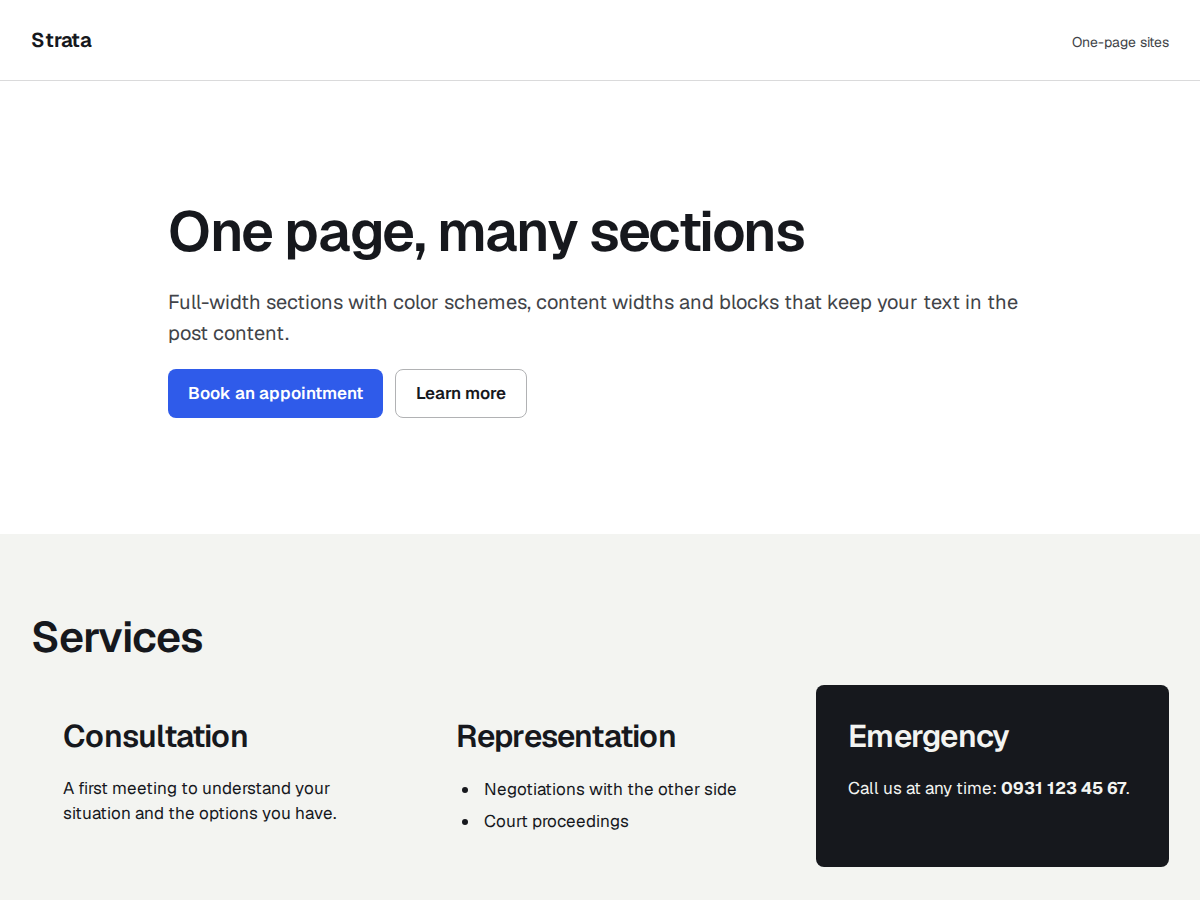
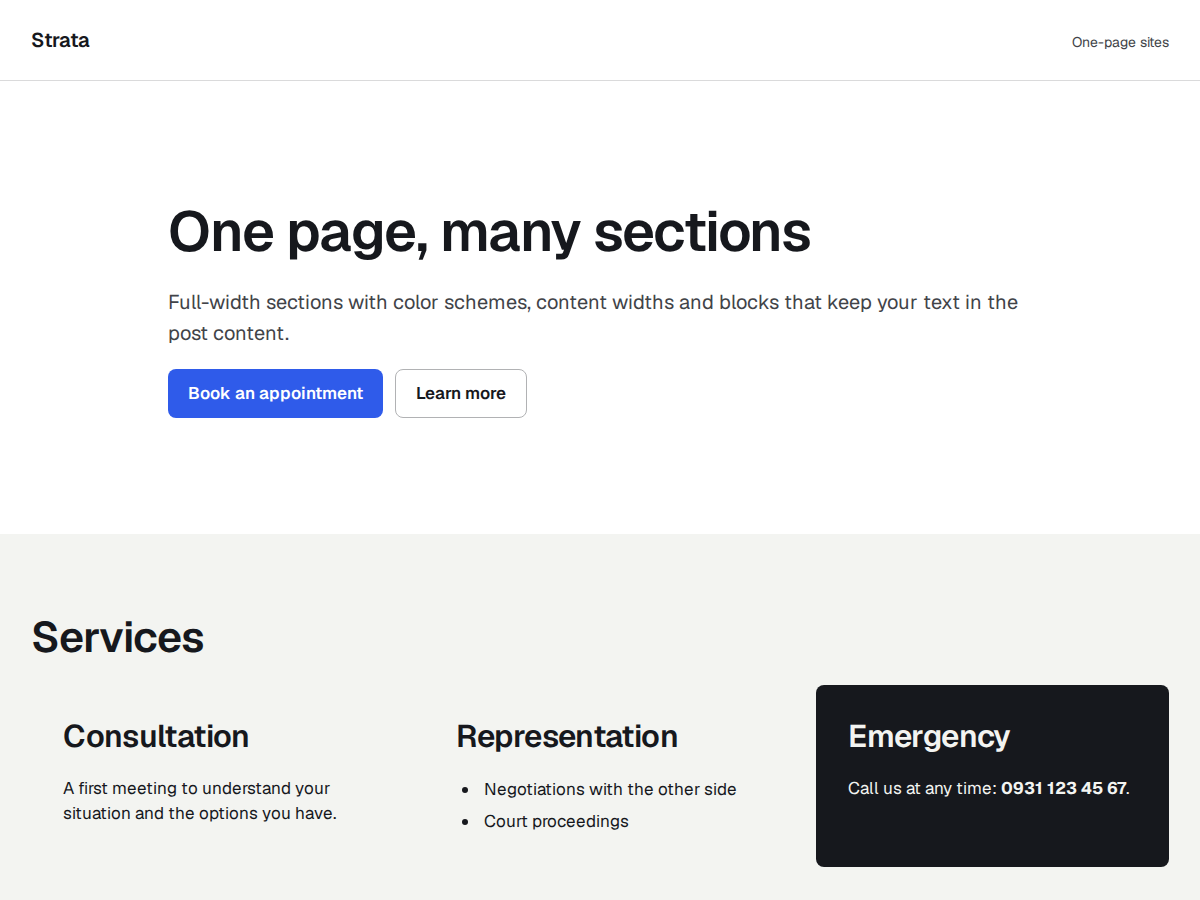
Add the Navigation block
Links to sections and pages: a row from md on, below a menu button that
opens a full-window panel. The panel is a popover, so the browser opens
and closes it (also with Escape); the view script closes it when a link is
followed. The screenshot follows the display font tokens of the last
commit.

diff --git a/tests/e2e/specs/navigation.spec.js b/tests/e2e/specs/navigation.spec.js
@@ -1,0 +1,93 @@
+/**
+ * The navigation on the front end: a row of links on wide screens, a panel behind the menu button on small screens
+ * that closes when a link to a section of the page is followed.
+ */
+const { test, expect } = require( '../fixtures' );
+
+const { block, cleanUp, createPost } = require( '../helpers' );
+
+const link = ( label, url ) =>
+	block( 'strata/navigation-link', {
+		label,
+		link: { url, opensInNewTab: false, kind: 'url', id: 0 },
+	} );
+const paragraph = ( text ) => block( 'strata/paragraph', {}, text );
+
+test.describe( 'Navigation', () => {
+	test.afterEach( async ( { requestUtils } ) => {
+		await cleanUp( requestUtils );
+	} );
+
+	test( 'shows a row of links on wide screens and a panel behind the menu button on small ones', async ( {
+		page,
+		requestUtils,
+	} ) => {
+		const filler = Array.from( { length: 30 }, ( _, index ) =>
+			paragraph( `Line ${ index }` )
+		).join( '\n' );
+		const post = await createPost( requestUtils, {
+			content: [
+				block(
+					'strata/section',
+					{},
+					block(
+						'strata/navigation',
+						{ label: 'Main', menuLabel: 'Menu' },
+						[
+							link( 'About', '#about' ),
+							link( 'Target', '#target' ),
+						].join( '\n' )
+					)
+				),
+				block( 'strata/section', {}, filler ),
+				block(
+					'strata/section',
+					{ anchor: 'target' },
+					paragraph( 'Target section' )
+				),
+			].join( '\n' ),
+		} );
+		const nav = page.getByRole( 'navigation', { name: 'Main' } );
+		const toggle = nav.getByRole( 'button', { name: 'Menu' } );
+		const panel = nav.locator( '.strata-navigation__panel' );
+
+		await page.setViewportSize( { width: 1280, height: 800 } );
+		await page.goto( post.link );
+		await expect( toggle ).toBeHidden();
+		const about = await nav
+			.getByRole( 'link', { name: 'About' } )
+			.boundingBox();
+		const target = await nav
+			.getByRole( 'link', { name: 'Target' } )
+			.boundingBox();
+		expect( target.y ).toBe( about.y );
+		expect( target.x ).toBeGreaterThan( about.x );
+
+		await page.setViewportSize( { width: 390, height: 800 } );
+		await expect( toggle ).toBeVisible();
+		await expect(
+			nav.getByRole( 'link', { name: 'Target' } )
+		).toBeHidden();
+
+		await toggle.click();
+		await expect( panel ).toBeVisible();
+		expect( await panel.boundingBox() ).toEqual( {
+			x: 0,
+			y: 0,
+			width: 390,
+			height: 800,
+		} );
+
+		// Following a link to a section of the page closes the panel.
+		await nav.getByRole( 'link', { name: 'Target' } ).click();
+		await expect( panel ).toBeHidden();
+		await expect( page ).toHaveURL( /#target$/ );
+		await expect( page.getByText( 'Target section' ) ).toBeInViewport();
+
+		// Escape closes it as well.
+		await toggle.click();
+		await expect( panel ).toBeVisible();
+		await page.keyboard.press( 'Escape' );
+		await expect( panel ).toBeHidden();
+	} );
+} );

diff --git a/assets/styles.css b/assets/styles.css
@@ -172,6 +172,46 @@
 		border-radius: var(--radius-control);
 	}
 
+	/*
+	 * Navigation: below md the links sit in a panel over the whole window (a popover; the browser hides it until
+	 * the menu button opens it), from md on the panel dissolves and the links form a row.
+	 */
+	.strata-navigation__panel {
+		inset: 0;
+		width: 100%;
+		max-width: none;
+		height: 100%;
+		max-height: none;
+		margin: 0;
+		border: 0;
+		padding: var(--spacing-gutter);
+		background-color: var(--scheme-bg);
+		color: var(--scheme-fg);
+	}
+
+	.strata-navigation__panel:popover-open {
+		display: flex;
+		flex-direction: column;
+		gap: 2rem;
+	}
+
+	.strata-navigation__panel .strata-navigation__list {
+		flex-direction: column;
+		font-size: var(--text-2xl);
+	}
+
+	/* The buttons hide with md:hidden in the template; utilities win over this layer. */
+	@media (width >= 48rem) {
+		.strata-navigation__panel {
+			display: contents;
+		}
+
+		.strata-navigation__panel .strata-navigation__list {
+			flex-direction: row;
+			font-size: inherit;
+		}
+	}
+
 	/* The header and footer parts sit apart from the content by a line. */
 	header.wp-block-template-part {
 		border-block-end: 1px solid var(--scheme-line);

diff --git a/src/Block/Navigation/Navigation.view.js b/src/Block/Navigation/Navigation.view.js
@@ -1,0 +1,19 @@
+import { BlockView } from '@saij/wp-app-framework/view';
+
+/**
+ * Closes the menu panel of small screens when a link in it is followed: a link to a section of the same page does not
+ * leave the page, and the panel would cover the section.
+ */
+export default class Navigation extends BlockView {
+	mount() {
+		const panel = this.find( '.strata-navigation__panel' );
+		this.listen( panel, 'click', ( event ) => {
+			if (
+				event.target.closest( 'a' ) &&
+				panel.matches( ':popover-open' )
+			) {
+				panel.hidePopover();
+			}
+		} );
+	}
+}

diff --git a/tests/e2e/specs/editor.spec.js b/tests/e2e/specs/editor.spec.js
@@ -200,6 +200,11 @@ test.describe( 'Editor', () => {
 					{ layout: 'row' },
 					block( 'strata/copyright' )
 				),
+				block(
+					'strata/navigation',
+					{},
+					block( 'strata/navigation-link', { label: 'Link' } )
+				),
 			].join( '\n' )
 		);
 		const post = await createPost( requestUtils, {
@@ -220,6 +225,7 @@ test.describe( 'Editor', () => {
 			'hr.strata-separator',
 			'.strata-details',
 			'.strata-copyright',
+			'.strata-navigation-link',
 		] ) {
 			await expect( canvas.locator( selector ).first() ).toBeVisible();
 		}

diff --git a/src/Block/Navigation/Navigation.php b/src/Block/Navigation/Navigation.php
@@ -1,0 +1,36 @@
+<?php
+
+declare(strict_types=1);
+
+namespace Saij\Strata\Block\Navigation;
+
+use Saij\Strata\Block\Category;
+use Saij\Strata\Block\Section\Section;
+use Saij\WpAppFramework\Block\Block;
+use Saij\WpAppFramework\Block\InnerBlocks;
+use Saij\WpAppFramework\Block\Orientation;
+use Saij\WpAppFramework\Block\Supports;
+use Saij\WpAppFramework\Block\TemplateBlock;
+use Saij\WpAppFramework\Twig\TemplateRenderer;
+
+/**
+ * Links to the sections of the page and to other pages: a row from `md` on; below, a menu button opens them in a
+ * panel over the page (a popover, which the browser opens and closes without script; the view script closes it when
+ * a link in it is followed, since a link to a section of the same page does not leave the page).
+ */
+#[Block('navigation', title: 'Navigation', category: Category::Content, icon: 'menu', description: 'Links to the sections of the page and to other pages, behind a menu button on small screens.', ancestor: [Section::class])]
+#[Supports(contentRole: true)]
+#[InnerBlocks(allowed: [NavigationLink::class], template: [new TemplateBlock(NavigationLink::class)], orientation: Orientation::Horizontal, defaultBlock: new TemplateBlock(NavigationLink::class), directInsert: true)]
+final readonly class Navigation
+{
+    public function __construct(private TemplateRenderer $renderer) {}
+
+    public function render(NavigationAttributes $attrs, string $content): string
+    {
+        return $this->renderer->render('Block/Navigation/Navigation.twig', [
+            'attrs' => $attrs,
+            'content' => $content,
+            'panelId' => wp_unique_id('strata-navigation-'),
+        ]);
+    }
+}

diff --git a/src/Block/Navigation/NavigationLink.php b/src/Block/Navigation/NavigationLink.php
@@ -1,0 +1,24 @@
+<?php
+
+declare(strict_types=1);
+
+namespace Saij\Strata\Block\Navigation;
+
+use Saij\Strata\Block\Category;
+use Saij\WpAppFramework\Block\Block;
+use Saij\WpAppFramework\Twig\TemplateRenderer;
+
+/**
+ * A link of the navigation: to a section of the page (a free URL such as `#training`, or `/#training` from other
+ * pages) or to a page.
+ */
+#[Block('navigation-link', title: 'Navigation link', category: Category::Content, icon: 'admin-links', parent: [Navigation::class])]
+final readonly class NavigationLink
+{
+    public function __construct(private TemplateRenderer $renderer) {}
+
+    public function render(NavigationLinkAttributes $attrs): string
+    {
+        return $this->renderer->render('Block/Navigation/NavigationLink.twig', ['attrs' => $attrs]);
+    }
+}

diff --git a/src/Block/Navigation/NavigationAttributes.php b/src/Block/Navigation/NavigationAttributes.php
@@ -1,0 +1,24 @@
+<?php
+
+declare(strict_types=1);
+
+namespace Saij\Strata\Block\Navigation;
+
+use Saij\WpAppFramework\Value\Label;
+use Saij\WpAppFramework\Value\PlainText;
+
+final readonly class NavigationAttributes
+{
+    public function __construct(
+        #[PlainText(inspector: true)]
+        #[Label('Name for screen readers')]
+        public string $label = 'Main',
+        #[PlainText(inspector: true)]
+        #[Label('Menu button')]
+        public string $menuLabel = 'Menu',
+        #[PlainText(inspector: true)]
+        #[Label('Close button (for screen readers)')]
+        public string $closeLabel = 'Close menu',
+        public NavigationJustify $justify = NavigationJustify::End,
+    ) {}
+}

diff --git a/src/Block/Navigation/NavigationJustify.php b/src/Block/Navigation/NavigationJustify.php
@@ -1,0 +1,22 @@
+<?php
+
+declare(strict_types=1);
+
+namespace Saij\Strata\Block\Navigation;
+
+use Saij\WpAppFramework\Value\Labeled;
+
+/**
+ * Where the row of links sits from `md` on; in the panel of small screens they stand one below the other.
+ */
+enum NavigationJustify: string implements Labeled
+{
+    case Start = 'start';
+    case Center = 'center';
+    case End = 'end';
+
+    public function label(): string
+    {
+        return ucfirst($this->value);
+    }
+}

diff --git a/src/Block/Navigation/NavigationLinkAttributes.php b/src/Block/Navigation/NavigationLinkAttributes.php
@@ -1,0 +1,17 @@
+<?php
+
+declare(strict_types=1);
+
+namespace Saij\Strata\Block\Navigation;
+
+use Saij\WpAppFramework\Value\Link;
+use Saij\WpAppFramework\Value\PlainText;
+
+final readonly class NavigationLinkAttributes
+{
+    public function __construct(
+        #[PlainText]
+        public string $label = '',
+        public Link $link = new Link(),
+    ) {}
+}

diff --git a/PLAN.md b/PLAN.md
@@ -12,7 +12,7 @@ This file records the decisions and the steps. Tick a step when its commits are 
 - The top level of a page holds sections only: every other block of the theme can only be inserted inside a section (`ancestor`), the core blocks of the header as well.
 - A one-page site has no blog and no search: the post type `post` with categories and tags is hidden in the backend, the REST API and the front end; a search answers with the 404 page. When the site switches to the theme without a static front page, the first published page becomes it, or a new page "Home" (`src/Site/FrontPage.php`).
 - Header and footer consist of single blocks and are edited in the site editor; the theme ships a sensible default:
-  - header: Section › Group (row) › `core/site-title` + `core/site-tagline`; no navigation;
+  - header: Section › Group (row) › `core/site-title` + `core/site-tagline`; a Navigation can be added (not in the default header, which has no sections to link to);
   - footer: Section › Group (row) › Paragraph with the links of the legal pages (chosen by the user) + Copyright.
 - No settings for header and footer content.
 
@@ -67,6 +67,7 @@ Own blocks in version 1 (namespace `strata`):
 | Quote | text and citation |
 | Separator | |
 | Details | summary and inner blocks |
+| Navigation / Navigation link | links to sections (free URLs such as `#about`, `/#about` from other pages) and pages; a row from `md` on, below a menu button that opens a full-window panel (popover: no script needed to open and close it; the view script closes it when a link is followed) |
 | Copyright | "© {year} {text}": the year rendered on the server, optional start year ("© 2019–2026"), text edited in the canvas, the site title when empty |
 No blog, so no query blocks (they were built in step 6 and removed again); no comments in version 1.
 
@@ -98,4 +99,4 @@ Each step is one or two commits; lint and build before each commit.
 - Sections only at the top level; the element of a section removed (always `<section>`).
 - All schemes choosable, shown as defined; columns with a boxed column line up their content.
 - In the framework: compact color controls side by side, settings as headings (wp-app-framework `main`).
-
+- Font tokens `--font-body` and `--font-display` (see Typography) and the Navigation block.
